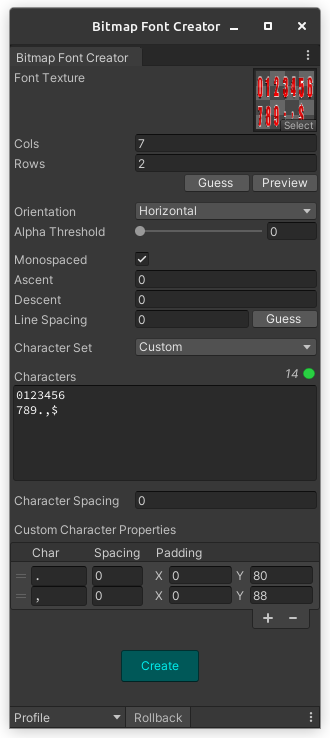
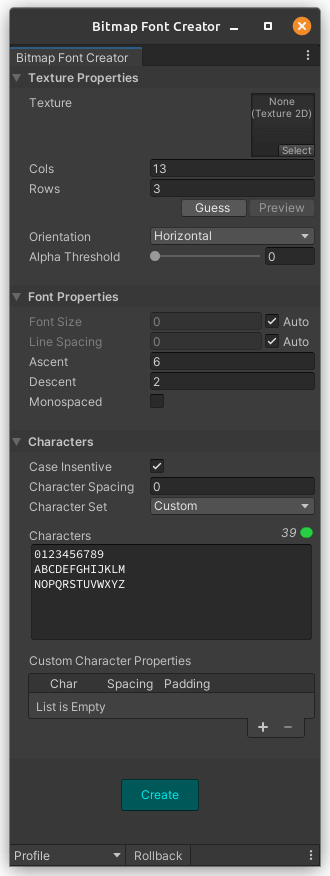
Documentation updated

diff --git a/README.md b/README.md
@@ -1,13 +1,25 @@
 # Unity Bitmap Font Creator
 
+![](./Documentation/github-cover.png)
+
 A simple tool to create bitmap fonts from a texture sprite sheet to be used with Text component.
 
 ![Latest release](https://img.shields.io/github/v/release/kleber-swf/unity-bitmap-font-creator?include_prereleases&style=flat)
 ![Minimum Unity supported](https://img.shields.io/badge/Unity-2018.3+-57b9d3.svg?style=flat&logo=unity&color=purple)
 
-![Main window](./Documentation/screenshot-01.png)
+[Font metrics used](#font-metrics-used) | [Installation](#installation) | [How to use the plugin](#how-to-use-the-plugin) | [Settings](#settings) | [Preference](#preferences) | [Actions](#actions) | [Profiles](#profiles) | [Known issues](#known-issues)
 
-## How to use it
+## Font metrics used
+
+The plugin uses a simplified version of font metrics. Here is a scheme of how they are used:
+
+<img src='./Documentation/metrics.png' height='auto' width='450px'>
+
+## Installation
+
+https://docs.unity3d.com/Manual/upm-ui-giturl.html
+
+## How to use the plugin
 
 Select a texture, change the [settings](#settings) accondingly and hit _Create_. It will create a _Material_ and a _Font Settings_ asset with the same name as the texture and in the same folder.
 
@@ -15,33 +27,43 @@ Make sure your texture has the _Read/Write_ enabled inside its properties.
 
 ## Settings
 
+![Main window](./Documentation/screenshot-01.png)
+
 Settings can be saved to [profiles](#profiles) and retrieved to be used later.
 
--  **Texture**: Texture used for the font. This is not saved to the profile.
--  **Cols**: Number of columns in the texture.
--  **Rows**: Number of rows in the texture.
--  **Orientation**: Order to look up for characters in the texture. Values: horizontal, vertical.
--  **Alpha Threshold**: Alpha threshold to identify characters bounds.
--  **Monospaced**: Whether the result font should be monospaced.
--  **Case Insentive**: Whether the characters for lowercase and uppercase are the same.
--  **Ascent**: Font ascent. It's the part of the glyphs that should be above the baseline.
--  **Descent**: Font descent. It's the part of the glyphs that should be below the baseline.
--  **Font Size**: Base font size in pixels
-   -  **Auto**: Automatically calculate the font size based on ascent property or cell size
--  **Line Spacing**: Vertical spacing between lines.
-   -  **Auto**: Automatically calculate the line spacing based on cell height
--  **Character Set**: Predefined character set to use. This is not saved to the profile.
--  **Characters**: Characters used in the font in order they appear in the texture. Use the space character to represent blank spaces in the texture. You can break lines as much as you need to make it easier to add the character according to the texture.
-   -  Note: the space character is generated based on the smallest character width found in the font texture
--  **Default Character Spacing**: Default spacing between characters.
--  **Custom Character Properties**: Custom properties for each characters, if any.
-   -  **Char**: Character to apply the properties.
-   -  **Spacing**: Horizontal spacing after the character (advance). Ignored if font is monospaced.
-   -  **Padding**: Custom horizontal and vertical padding to add before the character.
+-  **Texture Properties**
+
+   -  **Texture**: Texture used for the font. This is not saved to the profile.
+   -  **Cols**: Number of columns in the texture.
+   -  **Rows**: Number of rows in the texture.
+   -  **Orientation**: Order to look up for characters in the texture. Values: horizontal, vertical.
+   -  **Alpha Threshold**: Alpha threshold to identify characters bounds.
+
+-  **Font Properties**
+
+   -  **Font Size**: Base font size in pixels
+      -  **Auto**: Automatically calculate the font size based on ascent property or cell size
+   -  **Line Spacing**: Vertical spacing between lines.
+      -  **Auto**: Automatically calculate the line spacing based on cell height
+   -  **Ascent**: Font ascent. It's the part of the glyphs that should be above the baseline.
+   -  **Descent**: Font descent. It's the part of the glyphs that should be below the baseline.
+   -  **Monospaced**: Whether the result font should be monospaced.
+
+-  **Characters**
+
+   -  **Case Insentive**: Whether the characters for lowercase and uppercase are the same.
+   -  **Character Spacing**: Default spacing between characters.
+   -  **Character Set**: Predefined character set to use. This is not saved to the profile.
+   -  **Characters**: Characters used in the font in order they appear in the texture. Use the space character to represent blank spaces in the texture. You can break lines as much as you need to make it easier to add the character according to the texture.
+      -  Note: the space character is generated based on the smallest character width found in the font texture
+   -  **Custom Character Properties**: Custom properties for each characters, if any.
+      -  **Char**: Character to apply the properties.
+      -  **Spacing**: Horizontal spacing after the character (advance). Ignored if font is monospaced.
+      -  **Padding**: Custom horizontal and vertical padding to add before the character.
 
 ## Preferences
 
-Preferences are saved in the editor using _EditorPrefs_.
+Preferences are accessed by clicking on the three dots at the bottom right corner. Preferences are saved in the editor using _EditorPrefs_.
 
 -  **Warn before overwrite**: Warn before overwriting an existing font. This will replace the old font keeping the references.
 -  **Warn before replacing settings**: Warn before replacing settings when selecting a profile.
@@ -58,12 +80,6 @@ Preferences are saved in the editor using _EditorPrefs_.
 -  **Create**: Creates the font using the given settings.
 -  **Rollback**: Rollback settings to the selected profile or default if none is selected.
 
-## Measures
-
-The plugin uses a simplified version of font measures. Here is a scheme of how they are used:
-
-<img src='./Documentation/measures.png' height='auto' width='450px'>
-
 ## Profiles
 
 You can save profiles to retrieve them later, making easy to create patterns depending on the type of texture or font you are creating.
@@ -74,7 +90,7 @@ All [settings](#settings) except for the _Texture_ and the _Character Set_ can b
 
 You can manage profiles by opening the _Profiles_ menu at the bottom left corner of the popup. Select, create, edit or delete profiles like you do with layout profiles in Unity.
 
-## Known Issues
+## Known issues
 
 -  **It works only with font sprite sheets not sprite atlases**: It means that the distance between characters in the texture are the same and there is a fixed value of rows and columns. In other words, it has to be a grid of characters. They can't be sparsed.
 -  **The resultant font works only with Legacy Text Component**: It doens't work with TextMeshPro texts.
